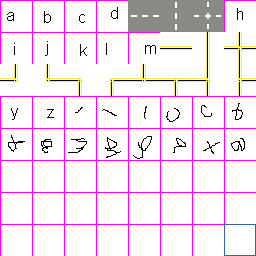
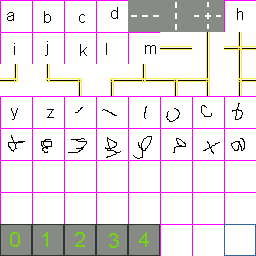
city level, count up num power stations connected to bar

Changed region(s): [[0.0, 0.875, 0.625, 1.0]]

diff --git a/core/src/levels/CityLevel.java b/core/src/levels/CityLevel.java
@@ -10,8 +10,10 @@ import lando.systems.ld31.Assets;
 import lando.systems.ld31.GameConstants;
 import levels.citylevel.*;
 
+import java.util.ArrayDeque;
 import java.util.HashMap;
 import java.util.Map;
+import java.util.Queue;
 
 /**
  * Brian Ploeckelman created on 12/6/2014.
@@ -36,6 +38,8 @@ public class CityLevel extends GameLevel {
 
     PowerTile powerGrid[][];
     PowerConnectionBar powerBar;
+
+    int numBarConnections = 0;
 
     Vector3 screenPos = new Vector3();
     Vector3 worldPos = new Vector3();
@@ -85,6 +89,9 @@ public class CityLevel extends GameLevel {
             powerSources[i].energizeConnections(powerGrid);
         }
 
+        // Figure out how many powers are connected to the bar
+        updateBarPowerConnections();
+
         // TODO (brian): is it time for a power line to break somewhere?
         // TODO (brian): is there a threat?  how severe?
     }
@@ -92,20 +99,23 @@ public class CityLevel extends GameLevel {
     @Override
     public void draw(SpriteBatch batch) {
         batch.setProjectionMatrix(camera.combined);
+//        batch.setColor(Color.WHITE);
         batch.setColor(0.4f, 0.4f, 0.4f, 1.0f);
-        batch.draw(Assets.squareTex, 0, 0, camera.viewportWidth, camera.viewportHeight);
-        for (int y = 0; y < tiles_high; ++y) {
-            for (int x = 0; x < tiles_wide; ++x) {
-                if (tiles[y][x] == CityTileTypes.bar) {
-                    batch.setColor(Color.MAGENTA);
-                    batch.draw(Assets.squareTex,
-                            x * tile_size, y * tile_size + margin_bottom, tile_size, tile_size);
-                    batch.setColor(0.4f, 0.4f, 0.4f, 1.0f);
-                }
-                batch.draw(textures.get(tiles[y][x]),
-                        x * tile_size, y * tile_size + margin_bottom, tile_size, tile_size);
-            }
-        }
+        batch.draw(CityAssets.city_background, 0, margin_bottom);
+//        batch.setColor(0.4f, 0.4f, 0.4f, 1.0f);
+//        batch.draw(Assets.squareTex, 0, 0, camera.viewportWidth, camera.viewportHeight);
+//        for (int y = 0; y < tiles_high; ++y) {
+//            for (int x = 0; x < tiles_wide; ++x) {
+//                if (tiles[y][x] == CityTileTypes.bar) {
+//                    batch.setColor(Color.MAGENTA);
+//                    batch.draw(Assets.squareTex,
+//                            x * tile_size, y * tile_size + margin_bottom, tile_size, tile_size);
+//                    batch.setColor(0.4f, 0.4f, 0.4f, 1.0f);
+//                }
+//                batch.draw(textures.get(tiles[y][x]),
+//                        x * tile_size, y * tile_size + margin_bottom, tile_size, tile_size);
+//            }
+//        }
 
         batch.setColor(Color.WHITE);
         for (int y = 0; y < tiles_high; ++y) {
@@ -126,6 +136,13 @@ public class CityLevel extends GameLevel {
         // Draw the currently active power grid type
         batch.draw(textures.get(powerBar.currentPowerLineType),
                 tilePos.x * tile_size, tilePos.y * tile_size + margin_bottom, tile_size, tile_size);
+        // Draw the number of connections to the bar
+        TextureRegion numConnections = CityAssets.connections0;
+        if      (numBarConnections == 1) numConnections = CityAssets.connections1;
+        else if (numBarConnections == 2) numConnections = CityAssets.connections2;
+        else if (numBarConnections == 3) numConnections = CityAssets.connections3;
+        else if (numBarConnections == 4) numConnections = CityAssets.connections4;
+        batch.draw(numConnections, 0, 0, tile_size * 2, tile_size * 2);
     }
 
     @Override
@@ -136,23 +153,11 @@ public class CityLevel extends GameLevel {
     // ------------------------------------------------------------------------
     private void generatePowerGrid() {
         powerGrid = new PowerTile[tiles_high][tiles_wide];
-        // Create all the power tiles
         for (int y = 0; y < tiles_high; ++y) {
             for (int x = 0; x < tiles_wide; ++x) {
                 powerGrid[y][x] = new PowerTile(x, y);
             }
         }
-        // Add graph connections
-//        PowerTile tile;
-//        for (int y = 0; y < tiles_high; ++y) {
-//            for (int x = 0; x < tiles_wide; ++x) {
-//                tile = powerGrid[y][x];
-//                if (y + 1 <  tiles_high) tile.up    = powerGrid[y + 1][x];
-//                if (y - 1 >= 0)          tile.down  = powerGrid[y - 1][x];
-//                if (x - 1 >= 0)          tile.left  = powerGrid[y][x - 1];
-//                if (x + 1 <  tiles_wide) tile.right = powerGrid[y][x + 1];
-//            }
-//        }
     }
 
     private void placePowerGridTile(int x, int y) {
@@ -213,6 +218,77 @@ public class CityLevel extends GameLevel {
         }
     }
 
+    Queue<PowerTile> connectionQueue = new ArrayDeque<PowerTile>();
+    private void updateBarPowerConnections() {
+        numBarConnections = 0;
+        // TODO (brian): do
+
+        // Reset energized state of all powerlines
+        for (int y = 0; y < tiles_high; ++y) {
+            for (int x = 0; x < tiles_wide; ++x) {
+                powerGrid[y][x].visited = false;
+            }
+        }
+
+        // Arbitrarily set the barTile to be one of the tiles from the new map
+        // TODO (brian): handle the 4 tile version?
+        barx = 14;
+        bary = 10;
+        PowerTile barTile = powerGrid[bary][barx];
+        if (CityTileTypes.connectsDown (powerGrid[bary - 1][barx    ].powerGridType))
+             barTile.up = powerGrid[bary - 1][barx    ];
+        else barTile.up = null;
+        if (CityTileTypes.connectsUp   (powerGrid[bary + 1][barx    ].powerGridType))
+             barTile.down = powerGrid[bary + 1][barx    ];
+        else barTile.down = null;
+        if (CityTileTypes.connectsLeft (powerGrid[bary    ][barx - 1].powerGridType))
+             barTile.right = powerGrid[bary    ][barx - 1];
+        else barTile.right = null;
+        if (CityTileTypes.connectsRight(powerGrid[bary    ][barx + 1].powerGridType))
+            barTile.left  = powerGrid[bary    ][barx + 1];
+        else barTile.left = null;
+
+        boolean[] stationConnection = new boolean[] { false, false, false, false };
+
+        connectionQueue.clear();
+        connectionQueue.add(barTile);
+        barTile.visited = true;
+        while (!connectionQueue.isEmpty()) {
+            // remove the front node
+            PowerTile powerTile = connectionQueue.remove();
+
+            // if we've hit a power station tile, set it as connected
+            for (int i = 0; i < powerSources.length; ++i) {
+                if (powerTile.x == powerSources[i].x && powerTile.y == powerSources[i].y) {
+                    stationConnection[i] = true;
+                }
+            }
+
+            // add neighbors if they exist, are energized, and haven't been visited already
+            if (powerTile.up != null && powerTile.up.energized && !powerTile.up.visited) {
+                powerTile.up.visited = true;
+                connectionQueue.add(powerTile.up);
+            }
+            if (powerTile.down != null && powerTile.down.energized && !powerTile.down.visited) {
+                powerTile.down.visited = true;
+                connectionQueue.add(powerTile.down);
+            }
+            if (powerTile.left != null && powerTile.left.energized && !powerTile.left.visited) {
+                powerTile.left.visited = true;
+                connectionQueue.add(powerTile.left);
+            }
+            if (powerTile.right != null && powerTile.right.energized && !powerTile.right.visited) {
+                powerTile.right.visited = true;
+                connectionQueue.add(powerTile.right);
+            }
+        }
+
+        // how many connections did we find?
+        for (int i = 0; i < stationConnection.length; ++i) {
+            if (stationConnection[i]) ++numBarConnections;
+        }
+    }
+
     private void enableGenerators() {
         for (int i = 0; i < powerSources.length; ++i) {
             CityPowerSource powerSource = powerSources[i];
@@ -222,10 +298,6 @@ public class CityLevel extends GameLevel {
             PowerTile generator = powerGrid[y][x];
             generator.energized = true;
             generator.powerGridType = CityTileTypes.power_line_x;
-//            if (y + 1 <  tiles_high) generator.up    = powerGrid[y + 1][x];
-//            if (y - 1 >= 0)          generator.down  = powerGrid[y - 1][x];
-//            if (x - 1 >= 0)          generator.left  = powerGrid[y][x - 1];
-//            if (x + 1 <  tiles_wide) generator.right = powerGrid[y][x + 1];
         }
     }
 
@@ -296,13 +368,6 @@ public class CityLevel extends GameLevel {
                 tiles[y][x] = CityTileTypes.getTile(layout[tiles_high - y - 1][x]);
                 if (tiles[y][x] == CityTileTypes.power_station) {
                     powerSources[i++] = new CityPowerSource(x,y);
-//
-//                    powerGrid[y][x].energized = true;
-//                    powerGrid[y][x].powerGridType = CityTileTypes.power_line_x;
-//                    if (y + 1 <  tiles_high) powerGrid[y][x].up    = powerGrid[y + 1][x];
-//                    if (y - 1 >= 0)          powerGrid[y][x].down  = powerGrid[y - 1][x];
-//                    if (x - 1 >= 0)          powerGrid[y][x].left  = powerGrid[y][x - 1];
-//                    if (x + 1 <  tiles_wide) powerGrid[y][x].right = powerGrid[y][x + 1];
                 }
                 else if (tiles[y][x] == CityTileTypes.bar) {
                     barx = x;

diff --git a/core/src/levels/citylevel/CityAssets.java b/core/src/levels/citylevel/CityAssets.java
@@ -10,7 +10,8 @@ import javax.xml.soap.Text;
  */
 public class CityAssets {
 
-    // TODO (brain): store in spritesheet and split into textureregions
+    public static Texture city_background;
+
     public static Texture spritesheet;
 
     public static TextureRegion bar;
@@ -37,10 +38,18 @@ public class CityAssets {
     public static TextureRegion power_line_down_t;
     public static TextureRegion power_line_left_t;
     public static TextureRegion power_line_right_t;
+
+    public static TextureRegion connections0;
+    public static TextureRegion connections1;
+    public static TextureRegion connections2;
+    public static TextureRegion connections3;
+    public static TextureRegion connections4;
+
     public static TextureRegion empty;
 
 
     public static void load() {
+        city_background = new Texture("city/city_map.png");
         spritesheet = new Texture("city/city_tiles.png");
 
         TextureRegion[][] regions = TextureRegion.split(spritesheet, 32, 32);
@@ -73,6 +82,12 @@ public class CityAssets {
         power_line_down_t    = regions[2][5];
         power_line_left_t    = regions[2][6];
         power_line_right_t   = regions[2][7];
+
+        connections0 = regions[7][0];
+        connections1 = regions[7][1];
+        connections2 = regions[7][2];
+        connections3 = regions[7][3];
+        connections4 = regions[7][4];
 
         empty = regions[7][7];
 

diff --git a/core/src/levels/citylevel/CityTileTypes.java b/core/src/levels/citylevel/CityTileTypes.java
@@ -70,6 +70,7 @@ public enum CityTileTypes {
     };
     public static CityTileTypes getRandomPowerLineType() {
         return power_line_types[Assets.rand.nextInt(power_line_types.length)];
+//        return power_line_x;
     }
     // -------------------------------------------------------------------------
 

diff --git a/core/src/levels/citylevel/CityPowerSource.java b/core/src/levels/citylevel/CityPowerSource.java
@@ -8,7 +8,6 @@ import java.util.Stack;
 public class CityPowerSource {
 
     public int x, y;
-    public boolean connected;
 
     private Stack<PowerTile> powerTileStack;
 
